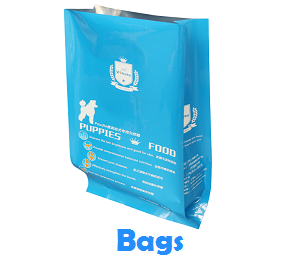
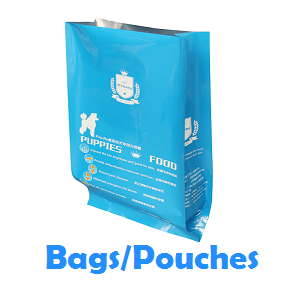
Add better images to the home page.
The page looks more professional now.

Changed region(s): [[0.1485, 0.0, 0.8614, 0.9377], [0.3564, 0.2051, 0.4752, 0.381], [0.5644, 0.1758, 0.5941, 0.2637]]

diff --git a/home.html b/home.html
@@ -14,7 +14,7 @@
 <!-- <div id="header-phone">Call 704-906-1135</div>
      <div class="clear"></div> -->
 
-<div id="logo"> <a href="/uniquesig1eb67cc8f22a58cc35f65bf2c2e76e30/uniquesig0/"><img  src="http://s7.postimg.org/50gs5jta3/LBmktg3_largegrey.jpg" class= "border" width="150" height="160"  alt=""></a></div> 
+<div id="logo"> <a href="home.html"><img  src="http://s7.postimg.org/50gs5jta3/LBmktg3_largegrey.jpg" class= "border" width="150" height="160"  alt=""></a></div> 
          
 <div style="height: 40px;" id="nav">
         
@@ -69,13 +69,13 @@
 
 </div>
 </div>
-<div style="border-bottom: 1px solid #e3ddd8; width: 100%; text-align: center; margin: 5px auto 20px;"><span style="color: blue; text-align: center; font-size: 120%; letter-spacing: .4em; font-family: 'Gentium Book Basic', serif; background: #fff; position: relative; bottom: -12px; padding: 0 10px 0 20px;">PRODUCTS</span></div>
+<div style="border-bottom: 1px solid #e3ddd8; width: 100%; text-align: center; margin: 5px auto 20px;"><span style="color: #1589FF; text-align: center; font-size: 120%; letter-spacing: .4em; font-family: 'Gentium Book Basic', serif; background: #fff; position: relative; bottom: -12px; padding: 0 10px 0 20px;">PRODUCTS</span></div>
 <div>
 	
 <ul class="nav-pic">
 <li><a title="" href="Corrugated.html"> <img alt="corrugated" src="http://s8.postimg.org/kpl7jbnf9/corrugated.jpg" /></a></li>
-<li><a title="" href=""> <img alt="bags" src="http://s7.postimg.org/8zg0fwwrf/bag.png" /></a></li>
-<li><a title="" href=""> <img alt="plastic film" src="http://s3.postimg.org/92zvdc54j/plastic_film_l_1.jpg" /></a></li>
+<li><a title="" href=""> <img alt="bags" src="http://s7.postimg.org/s29hx2kez/bag.png" /></a></li>
+<li><a title="" href=""> <img alt="plastic film" src="http://s24.postimg.org/vsdaw5vv9/roll_film.jpg" /></a></li>
 <li><a title="" href=""> <img alt="labels" src="http://s27.postimg.org/u6k116f3n/Color_Labels.png" /></a></li>
 </ul>
 </div>

diff --git a/products/bags.html b/products/bags.html
@@ -66,7 +66,8 @@ $(function() {
 <!-- <div id="header-phone">Call 704-906-1135</div>
      <div class="clear"></div> -->
 
-<div id="logo"> <a href="/uniquesig1eb67cc8f22a58cc35f65bf2c2e76e30/uniquesig0/"><img  src="http://s7.postimg.org/50gs5jta3/LBmktg3_largegrey.jpg" class= "border" width="150" height="160"  alt=""></a></div> 
+<div id="logo"> <a href="../home.html"><img  src="http://s7.postimg.org/50gs5jta3/LBmktg3_largegrey.jpg" class= "border" width="150" height="160"  alt=""></a></div> 
+
          
 <div style="height: 40px;" id="nav">
         

diff --git a/products/labels.html b/products/labels.html
@@ -66,7 +66,8 @@ $(function() {
 <!-- <div id="header-phone">Call 704-906-1135</div>
      <div class="clear"></div> -->
 
-<div id="logo"> <a href="/uniquesig1eb67cc8f22a58cc35f65bf2c2e76e30/uniquesig0/"><img  src="http://s7.postimg.org/50gs5jta3/LBmktg3_largegrey.jpg" class= "border" width="150" height="160"  alt=""></a></div> 
+<div id="logo"> <a href="../home.html"><img  src="http://s7.postimg.org/50gs5jta3/LBmktg3_largegrey.jpg" class= "border" width="150" height="160"  alt=""></a></div> 
+
          
 <div style="height: 40px;" id="nav">
         

diff --git a/products/rollfilm.html b/products/rollfilm.html
@@ -66,7 +66,8 @@ $(function() {
 <!-- <div id="header-phone">Call 704-906-1135</div>
      <div class="clear"></div> -->
 
-<div id="logo"> <a href="/uniquesig1eb67cc8f22a58cc35f65bf2c2e76e30/uniquesig0/"><img  src="http://s7.postimg.org/50gs5jta3/LBmktg3_largegrey.jpg" class= "border" width="150" height="160"  alt=""></a></div> 
+<div id="logo"> <a href="../home.html"><img  src="http://s7.postimg.org/50gs5jta3/LBmktg3_largegrey.jpg" class= "border" width="150" height="160"  alt=""></a></div> 
+
          
 <div style="height: 40px;" id="nav">
         

diff --git a/products/Corrugated.html b/products/Corrugated.html
@@ -66,7 +66,7 @@ $(function() {
 <!-- <div id="header-phone">Call 704-906-1135</div>
      <div class="clear"></div> -->
 
-<div id="logo"> <a href="/uniquesig1eb67cc8f22a58cc35f65bf2c2e76e30/uniquesig0/"><img  src="http://s7.postimg.org/50gs5jta3/LBmktg3_largegrey.jpg" class= "border" width="150" height="160"  alt=""></a></div> 
+<div id="logo"> <a href="../home.html"><img  src="http://s7.postimg.org/50gs5jta3/LBmktg3_largegrey.jpg" class= "border" width="150" height="160"  alt=""></a></div> 
          
 <div style="height: 40px;" id="nav">
         
